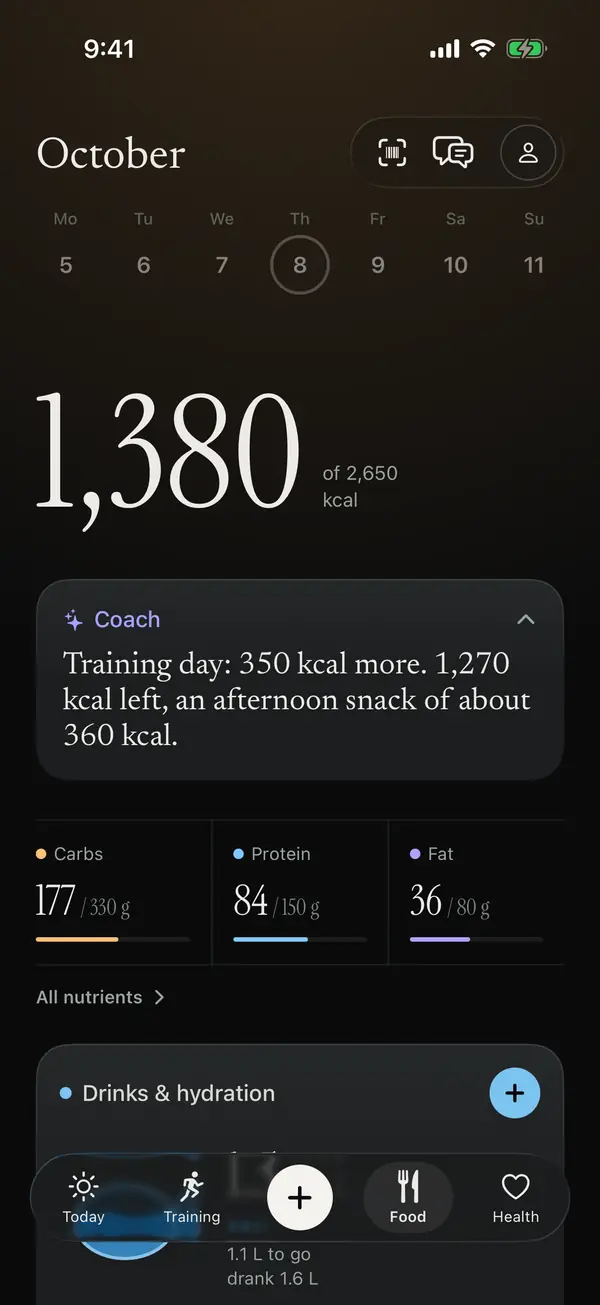
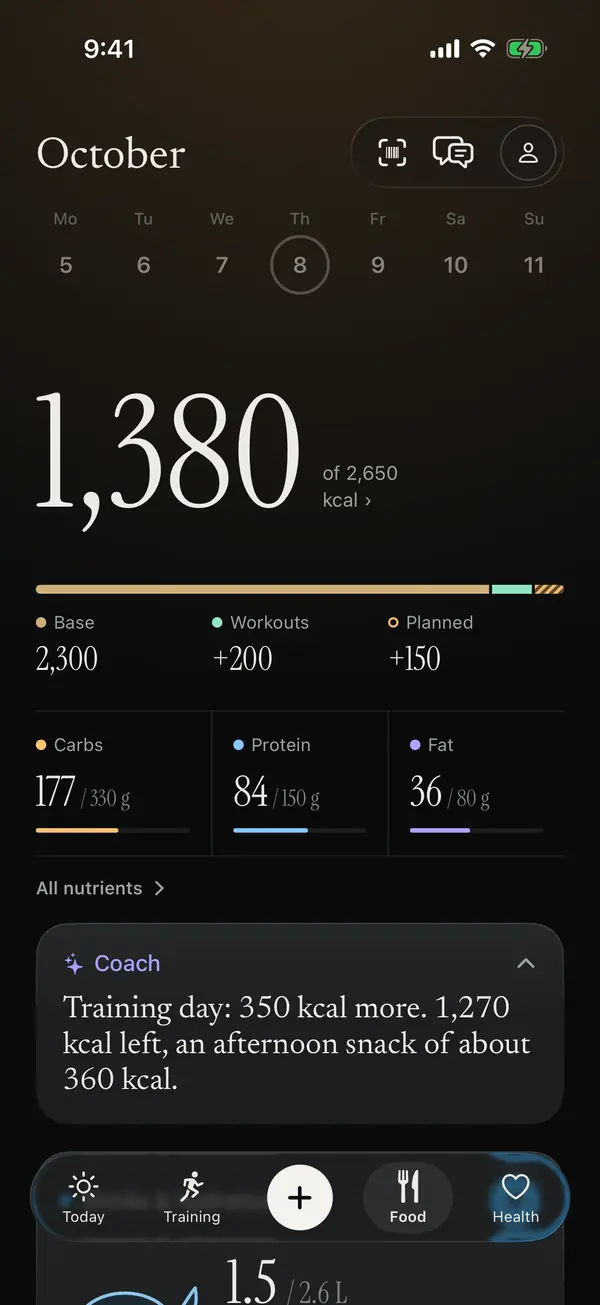
Food: macros right under the calorie target, coach below, calm "kcal over" past the target (#714)
* Food: macros right under the calorie target, the coach's card under them

The Carbs / Protein / Fat cells and All nutrients move up under the target's
parts (Base / Workouts / Planned); the coach's card follows, then drinks and
meals as before. The website's food demo follows the same order.

Claude-Session: https://claude.ai/code/session_01GJwnsds4Q2GK3go3532SKG

* Food: a calm "120 kcal over" beside the number once the target is past

Past the day's target (its workouts done and planned included) the line beside
the big number reads "120 kcal over" in rust, then "of 2,650 kcal"; the number
itself stays ink. Same words as the watch's food page.

Claude-Session: https://claude.ai/code/session_01GJwnsds4Q2GK3go3532SKG

* Website: Food's screenshots from this PR's run (macros under the target, coach below)

Claude-Session: https://claude.ai/code/session_01GJwnsds4Q2GK3go3532SKG

---------

diff --git a/ios-native/Aurin/Screens/FoodView.swift b/ios-native/Aurin/Screens/FoodView.swift
@@ -140,9 +140,23 @@ struct FoodContent: View {
             Text(Fmt.int(food.kcal ?? 0)).font(Typo.number(104)).lineLimit(1).minimumScaleFactor(0.5).foregroundStyle(Palette.ink)
             if let target = food.target {
                 // With its parts the target opens where the numbers come from.
-                Text(L10n.f("z %@\nkcal", Fmt.int(target)) + (food.targetParts != nil ? " ›" : ""))
-                    .font(Typo.small).foregroundStyle(Palette.muted).lineSpacing(1)
-                    .onTapGesture { if food.targetParts != nil { showingParts = true } }
+                let more = food.targetParts != nil ? " ›" : ""
+                let over = (food.kcal ?? 0).rounded() - target.rounded()
+                Group {
+                    if over >= 1 {
+                        // Past the target (its workouts done and planned included): a calm note
+                        // in rust, as a limit past on the macros, not the number in red.
+                        VStack(alignment: .leading, spacing: 1) {
+                            Text(L10n.f("%@ kcal navíc", Fmt.int(over))).font(Typo.small.weight(.semibold)).foregroundStyle(Palette.rust)
+                            Text(L10n.f("z %@ kcal", Fmt.int(target)) + more).font(Typo.small).foregroundStyle(Palette.muted)
+                        }
+                        .lineLimit(1)
+                    } else {
+                        Text(L10n.f("z %@\nkcal", Fmt.int(target)) + more)
+                            .font(Typo.small).foregroundStyle(Palette.muted).lineSpacing(1)
+                    }
+                }
+                .onTapGesture { if food.targetParts != nil { showingParts = true } }
             }
         }
         .padding(.top, 30)
@@ -157,13 +171,8 @@ struct FoodContent: View {
                                      isToday: food.date == today, past: food.date < today)
                 }
         }
-        // An earlier day shows only its data; a day ahead keeps its sentence.
-        let day = page.map(\.selectedDate) ?? model.selectedDate
-        if day.map({ $0 > AppModel.localDate(Date()) }) ?? true {
-            CoachTextCard(screen: "food", fallbackText: food.sentence, live: day == nil).padding(.top, 16)
-        }
-
-        MacroCells(macros: food.macros).padding(.top, 26)
+        // The macros right under the target, so they show without scrolling; the coach's card under them.
+        MacroCells(macros: food.macros).padding(.top, 20)
         // Pro: the nutrients picked under Živiny → Upravit; the rest is one tap away.
         ForEach(food.nutrients ?? []) { item in
             NutrientRow(item: item).padding(.top, 8)
@@ -178,6 +187,12 @@ struct FoodContent: View {
         }
         .buttonStyle(.plain)
         .padding(.top, 8)
+
+        // An earlier day shows only its data; a day ahead keeps its sentence.
+        let day = page.map(\.selectedDate) ?? model.selectedDate
+        if day.map({ $0 > AppModel.localDate(Date()) }) ?? true {
+            CoachTextCard(screen: "food", fallbackText: food.sentence, live: day == nil).padding(.top, 10)
+        }
 
         board.padding(.top, 18)
 

diff --git a/src/site-demos.js b/src/site-demos.js
@@ -355,9 +355,9 @@ const foodTarget = `<div class="dm pad">
 <div class="row base"><span class="num big">1,380</span><span class="fo mut">of 2,650<br>kcal ›</span></div>
 <i class="tbar" style="margin-top:14px"><b style="flex:2300;background:var(--brown)"></b><b style="flex:200;background:var(--green)"></b><b style="flex:150;background:repeating-linear-gradient(135deg,var(--amber) 0 3px,transparent 3px 6px)"></b></i>
 <div class="tp3">${[['Base', '2,300', 'brown'], ['Workouts', '+200', 'green'], ['Planned', '+150', 'amber']].map(([k, v, c], i) => `<div><span class="mut s"><i style="${i === 2 ? `border:1.5px solid var(--${c})` : `background:var(--${c})`}"></i>${k}</span><span class="num md">${v}</span></div>`).join('')}</div>
-<div class="coach"><div class="ch4">${ic('spark')}Coach</div><p class="sent">Training day: 350 kcal more. 1,270 kcal left, an afternoon snack of about 360 kcal.</p></div>
 <div class="mac3">${[['Carbs', 177, 330, 'carbs'], ['Protein', 84, 150, 'protein'], ['Fat', 36, 80, 'fat']].map(([k, v, t, c]) => `<div><span class="mut s"><i style="background:var(--${c})"></i>${k}</span><span class="num md">${v}<small> / ${t} g</small></span><i class="mb"><b style="--w:${v / t * 100}%;background:var(--${c})"></b></i></div>`).join('')}</div>
 <div class="mut s alln">All nutrients ›</div>
+<div class="coach"><div class="ch4">${ic('spark')}Coach</div><p class="sent">Training day: 350 kcal more. 1,270 kcal left, an afternoon snack of about 360 kcal.</p></div>
 </div>`;
 
 // AddFoodSheet.swift ("Co přidáme?": the meal, the search, six tiles, the foods list), then BarcodeScanSheet.swift:
